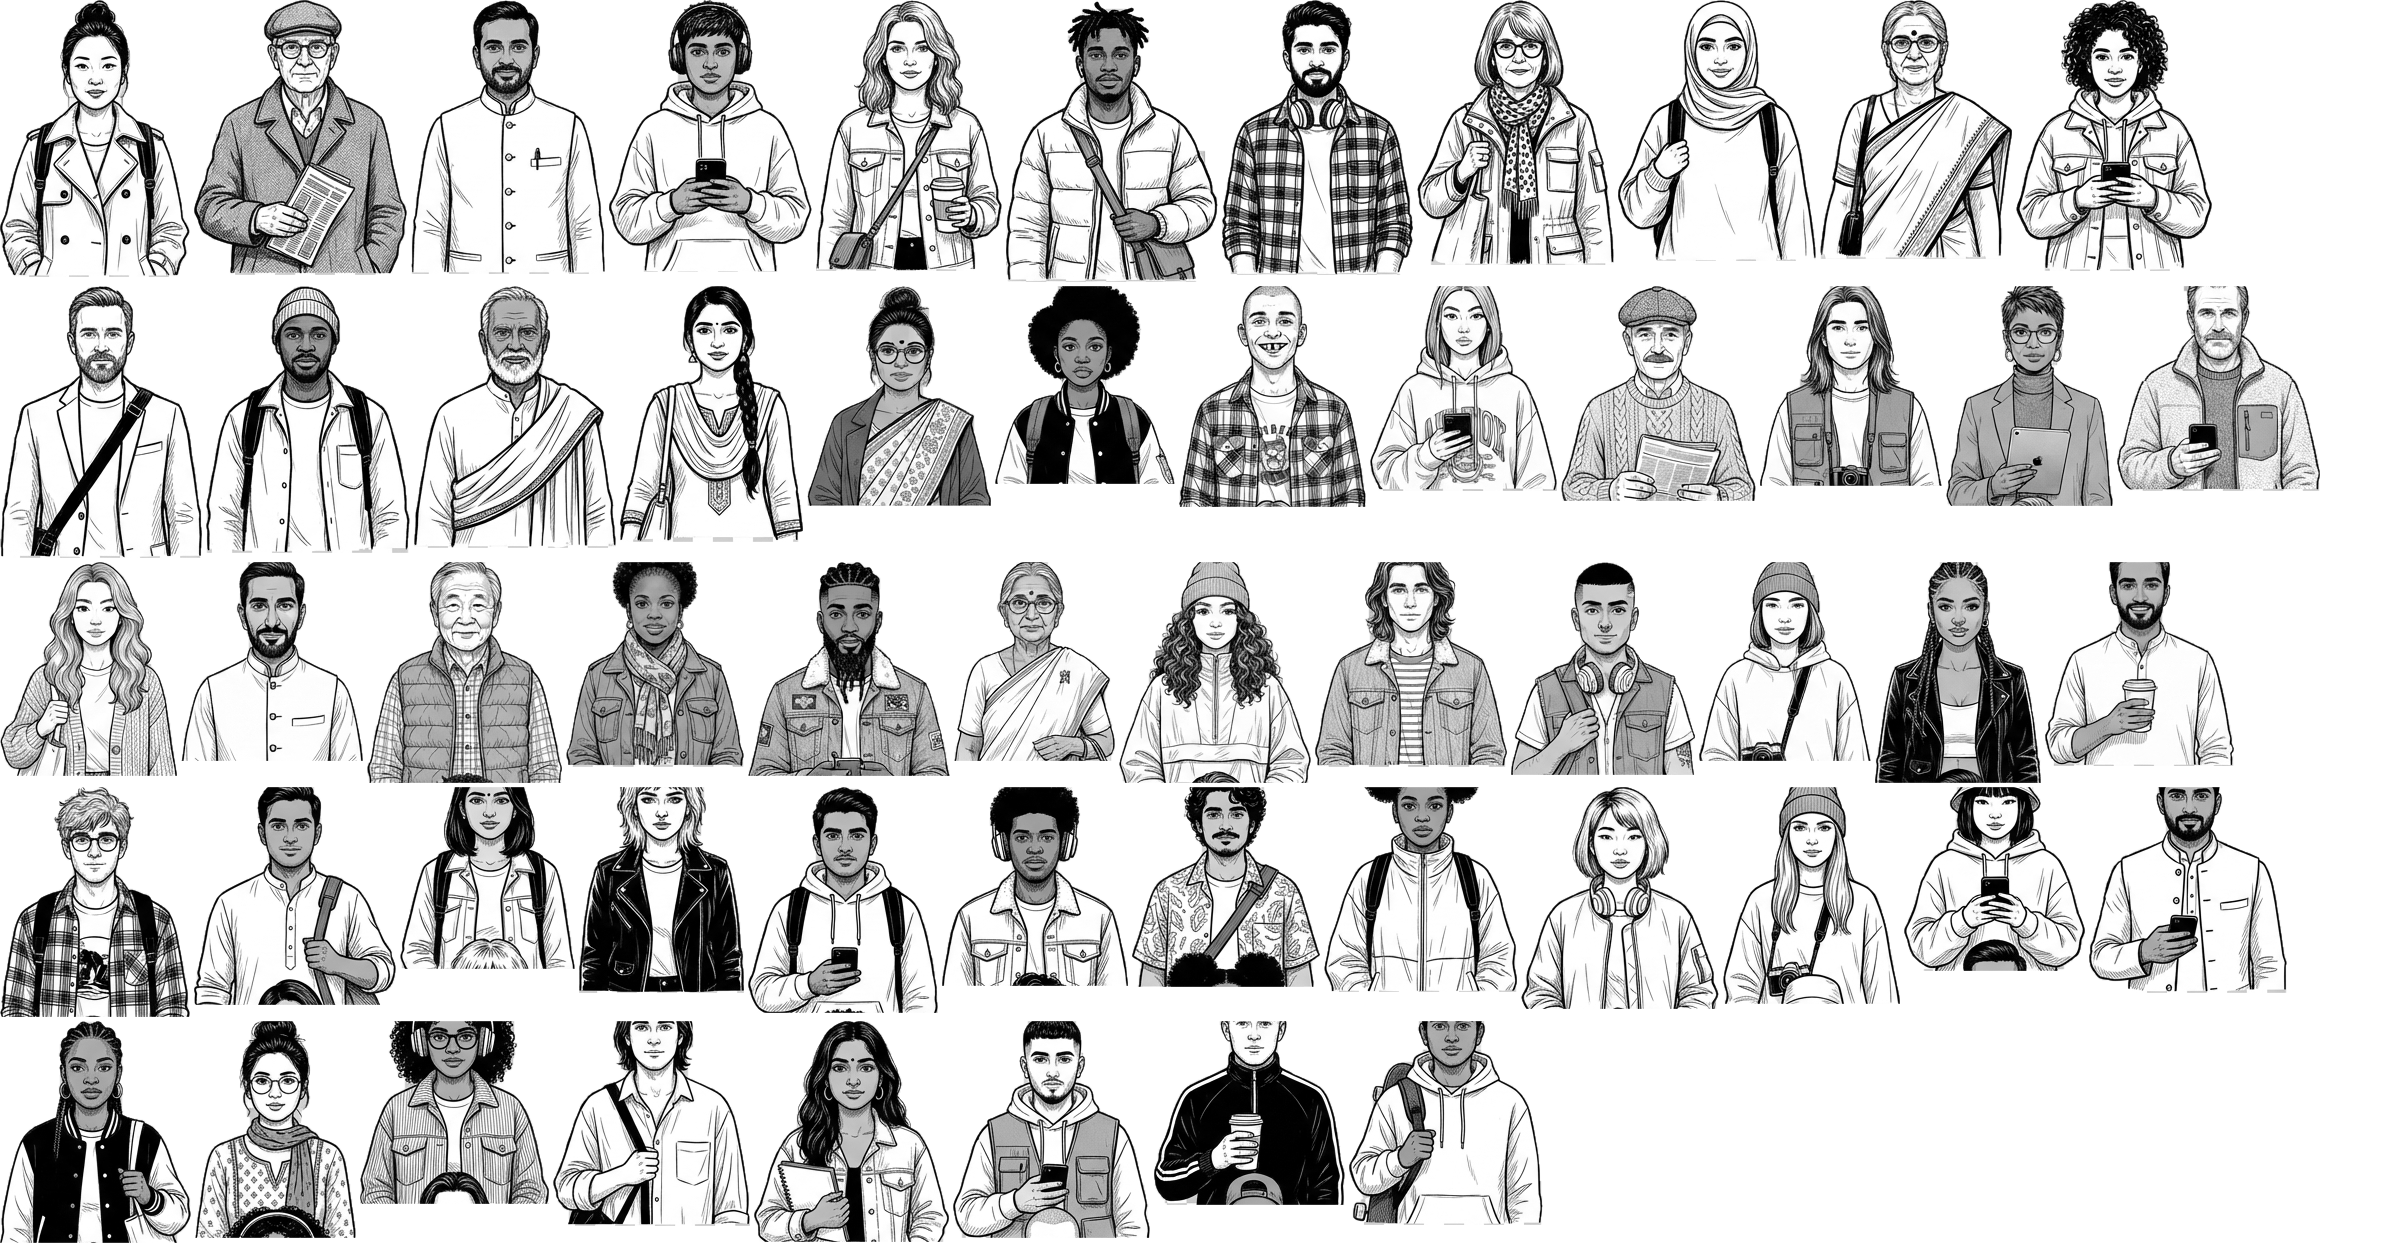
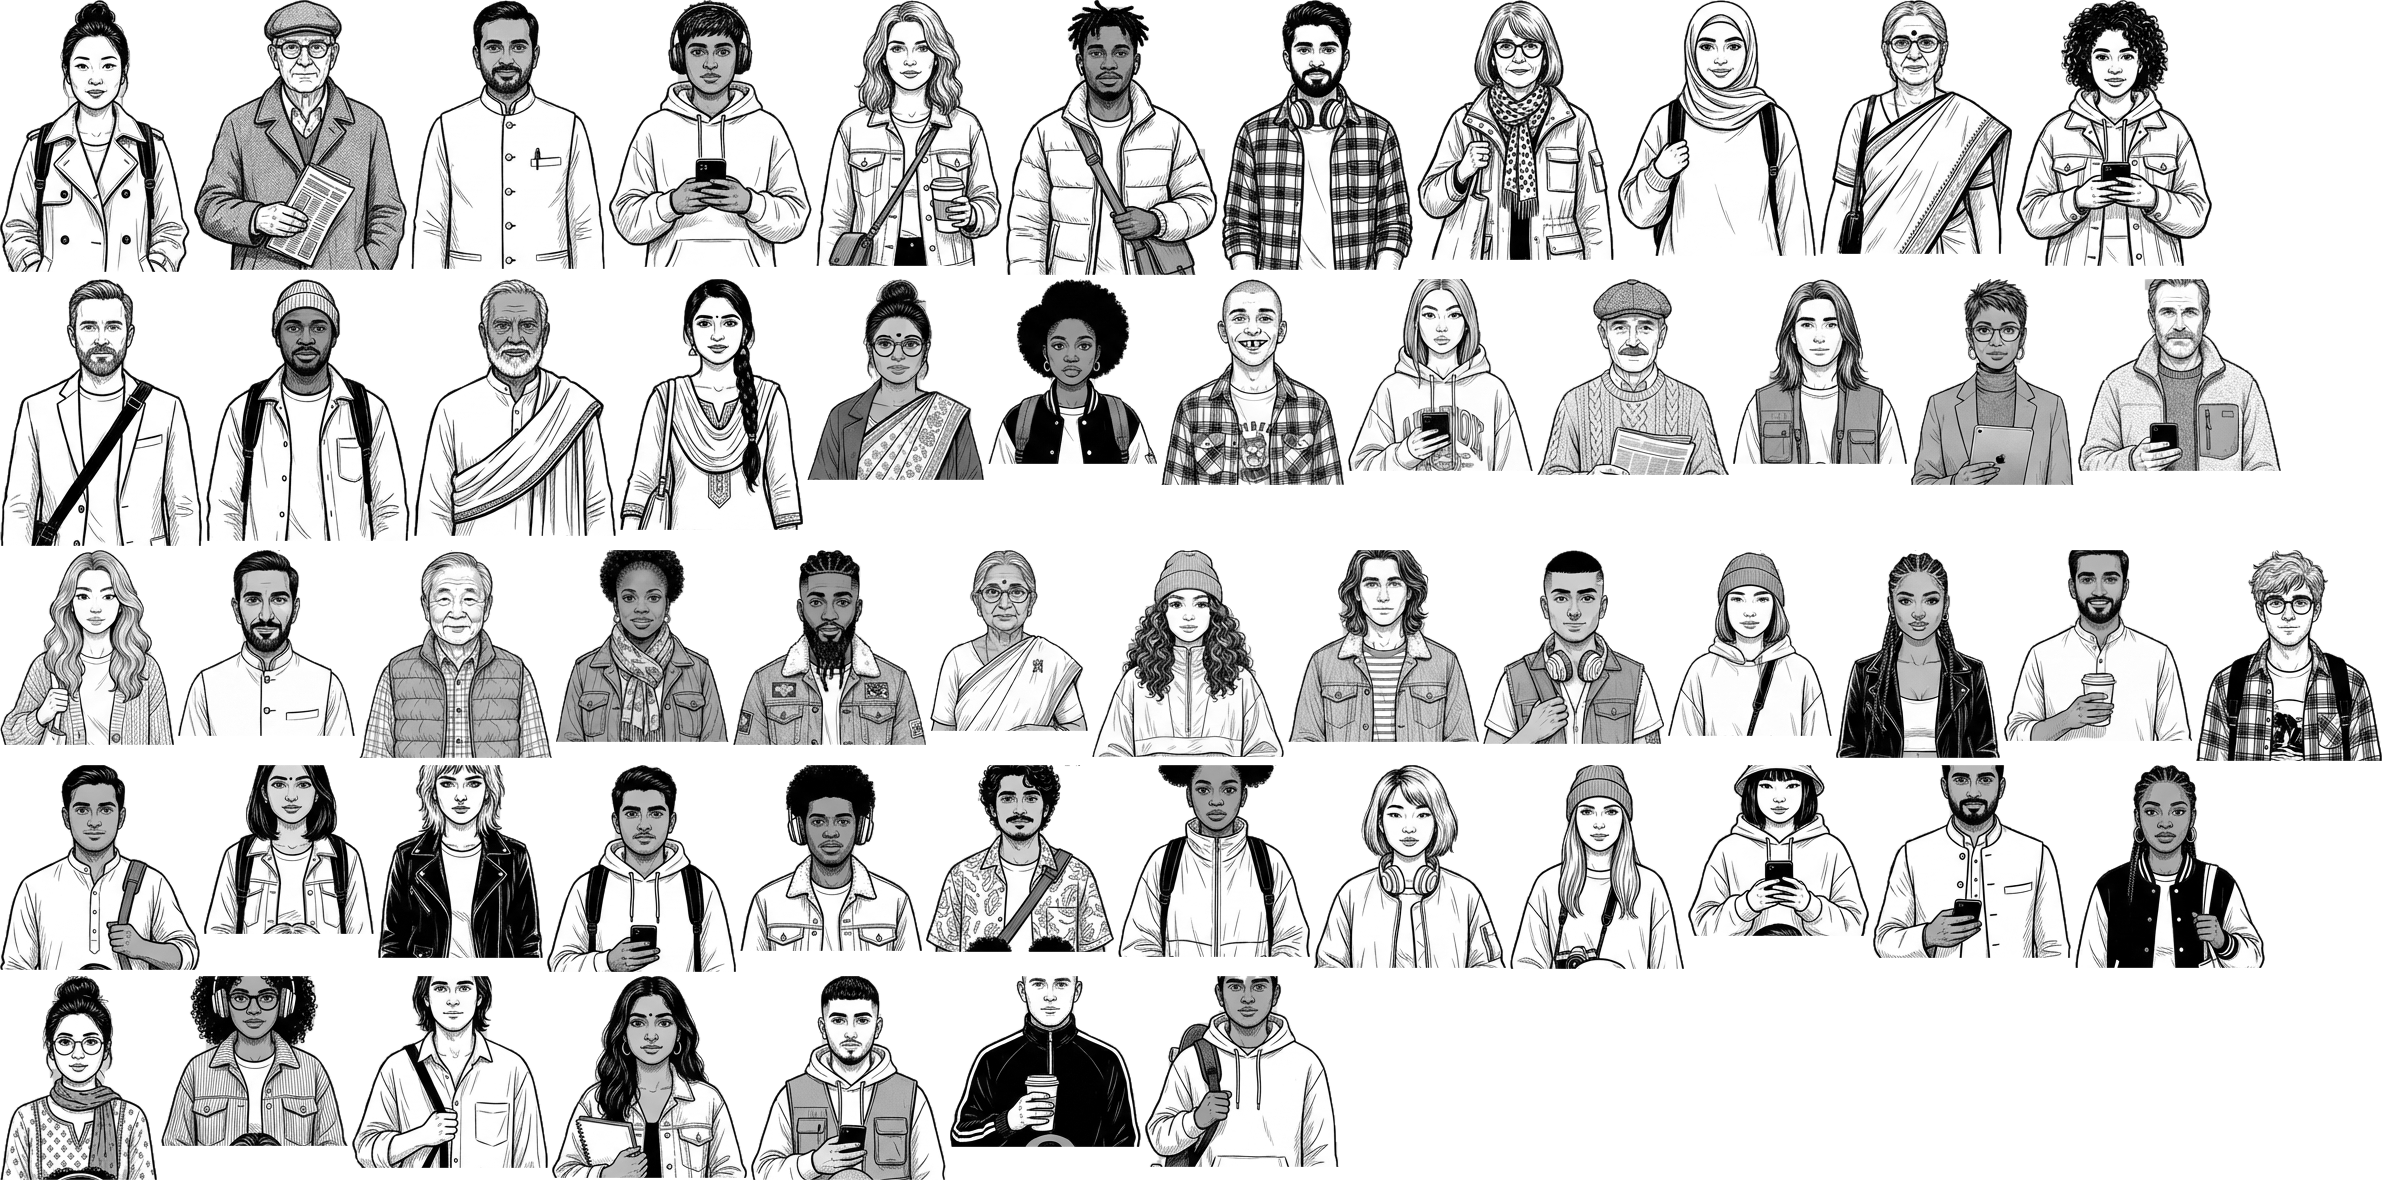
Add files via upload

diff --git a/index.html b/index.html
@@ -468,7 +468,7 @@ document.getElementById("grid").innerHTML = photos.map(p =>
   }
 
   /* The 55 illustrated people live in one image (crowd-atlas.png); this list says where each one is: [x, y, width, height] */
-  const RECTS = [[0,0,190,277],[194,0,213,275],[411,0,194,274],[609,0,203,272],[816,0,186,271],[1006,0,212,282],[1222,0,191,275],[1417,0,197,265],[1618,0,198,261],[1820,0,192,259],[2016,0,196,271],[0,286,202,272],[206,286,204,267],[414,286,202,262],[620,286,183,256],[807,286,184,220],[995,286,180,198],[1179,286,187,221],[1370,286,187,205],[1561,286,195,215],[1760,286,182,200],[1946,286,167,220],[2117,286,203,205],[0,562,177,214],[181,562,182,199],[367,562,195,221],[566,562,178,205],[748,562,202,214],[954,562,161,199],[1119,562,192,221],[1315,562,192,205],[1511,562,184,213],[1699,562,172,199],[1875,562,166,221],[2045,562,189,204],[0,787,190,230],[194,787,202,218],[400,787,175,182],[579,787,165,206],[748,787,190,226],[942,787,186,199],[1132,787,188,200],[1324,787,193,205],[1521,787,198,222],[1723,787,177,217],[1904,787,181,184],[2089,787,198,206],[0,1021,191,222],[195,1021,161,217],[360,1021,189,183],[553,1021,197,205],[754,1021,195,221],[953,1021,197,217],[1154,1021,191,184],[1349,1021,194,204]];
+  const RECTS = [[0,0,190,272],[194,0,213,270],[411,0,194,269],[609,0,203,267],[816,0,186,266],[1006,0,212,275],[1222,0,191,270],[1417,0,197,260],[1618,0,198,256],[1820,0,192,254],[2016,0,196,266],[0,279,202,267],[206,279,204,262],[414,279,202,257],[620,279,183,251],[807,279,177,201],[988,279,169,185],[1161,279,183,206],[1348,279,185,192],[1537,279,192,196],[1733,279,174,185],[1911,279,163,206],[2078,279,203,192],[0,550,174,195],[178,550,177,186],[359,550,193,208],[556,550,173,192],[733,550,193,195],[930,550,158,181],[1092,550,192,207],[1288,550,191,192],[1483,550,181,194],[1668,550,164,186],[1836,550,164,208],[2004,550,188,191],[2196,550,186,211],[0,765,200,205],[204,765,170,169],[378,765,165,193],[547,765,189,207],[740,765,182,186],[926,765,188,187],[1118,765,192,192],[1314,765,192,203],[1510,765,174,204],[1688,765,181,171],[1873,765,198,193],[2075,765,190,203],[0,976,157,204],[161,976,187,170],[352,976,196,192],[552,976,195,202],[751,976,195,204],[950,976,191,171],[1145,976,194,191]];
   function fromAtlas(img) {
     return RECTS.map(([x, y, w, h]) => {
       const c = document.createElement("canvas"); c.width = w; c.height = h;
@@ -484,7 +484,7 @@ document.getElementById("grid").innerHTML = photos.map(p =>
     });
     return a;
   }
-  function paint(cv, list, baseY, hh) {
+  function paint(cv, list, baseY, hh, fade) {
     const ctx = cv.getContext("2d"), span = W + M * 2;
     ctx.setTransform(dpr, 0, 0, dpr, 0, 0); ctx.clearRect(0, 0, W, H);
     list.forEach(w => {
@@ -493,10 +493,16 @@ document.getElementById("grid").innerHTML = photos.map(p =>
       const bob = (Math.sin(clock * 12.57 + w.bob) * 0.5 + 0.5) * 10;
       ctx.drawImage(s, x - wd / 2, baseY - h - bob, wd, h);
     });
+    if (fade) { /* back row: fade the flat cut-off bottoms into the background */
+      const g = ctx.createLinearGradient(0, baseY - hh * 0.4, 0, baseY);
+      g.addColorStop(0, "rgba(0,0,0,1)"); g.addColorStop(1, "rgba(0,0,0,0)");
+      ctx.globalCompositeOperation = "destination-in"; ctx.fillStyle = g; ctx.fillRect(0, 0, W, H);
+      ctx.globalCompositeOperation = "source-over";
+    }
   }
   function render() {
     if (!rows) return;
-    paint(rear, rows.rear, H * 0.76, H * 0.33);
+    paint(rear, rows.rear, H * 0.76, H * 0.33, true);
     paint(front, rows.front, H * 1.04, H * 0.52);
   }
   function resize() {
